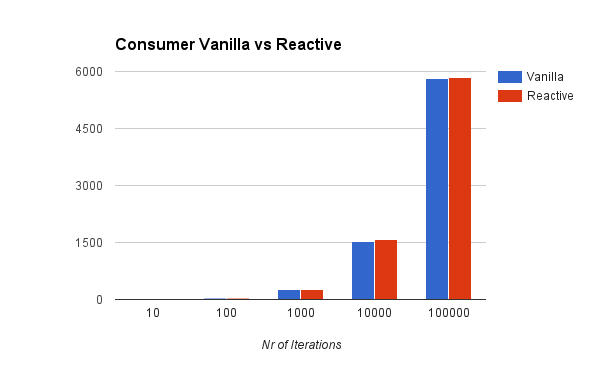
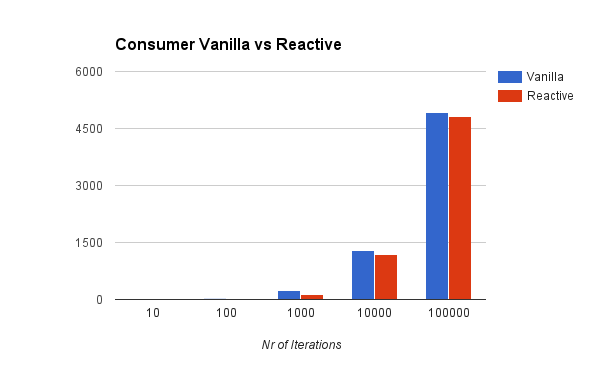
update README with test results

Changed region(s): [[0.69, 0.2075, 0.81, 0.3261], [0.57, 0.6226, 0.66, 0.7116], [0.48, 0.7709, 0.54, 0.8005]]

diff --git a/README.md b/README.md
@@ -7,7 +7,7 @@ This is a fork of [kafka-storm-starter](https://github.com/miguno/kafka-storm-st
 ---
 
 # Test Cases
-The tests use kafka 0.8.2.2 and reactive-kafka 0.8.4 (which uses akka-streams 2)
+The tests use kafka 0.9.0.0 and reactive-kafka 0.9.1-SNAPSHOT (which uses akka-streams 2 and grapstage)
 
 ## Consumer
 
@@ -29,11 +29,11 @@ This "flow" is tested by creating a producer that sends N messages to "topicIn" 
 
 Nr of messages  | vanilla api (rps) | reactive-kafka api (rps) |
 --------------- | -----------------:| ------------------------:|
-10     | 3.39     | 3.54
-100    | 32.17    | 31.51
-1000   | 265.93   | 257.58
-10000  | 1,516.64 | 1,588.79
-100000 | 5,821.53 | 5,841.08
+10     | 2.54     | 1.46
+100    | 22.73    | 14.93
+1000   | 227.74   | 140.99
+10000  | 1,286.33 | 1,196.80
+100000 | 4,918.49 | 4,814.38
 
 ![Consumer results](images/Consumer Vanilla vs Reactive.png)
 
@@ -41,10 +41,10 @@ Nr of messages  | vanilla api (rps) | reactive-kafka api (rps) |
 
 Nr of messages  | vanilla api (rps) | reactive-kafka api (rps) |
 --------------- | -----------------:| ------------------------:|
-10     | 2.72     | 2.71
-100    | 22.93    | 24.58
-1000   | 176.59   | 173.61
-10000  | 1,053.37 | 854.11
-100000 | 4,531.67 | 2,398.79
+10     | 2.43     | 1.29
+100    | 20.49    | 13.95
+1000   | 159.76   | 137.55
+10000  | 977.11   | 1,135.32
+100000 | 3,964.75 | 3,693.20
 
 ![ConsumerProducer results](images/ConsumerProducer Vanilla vs Reactive.png)
